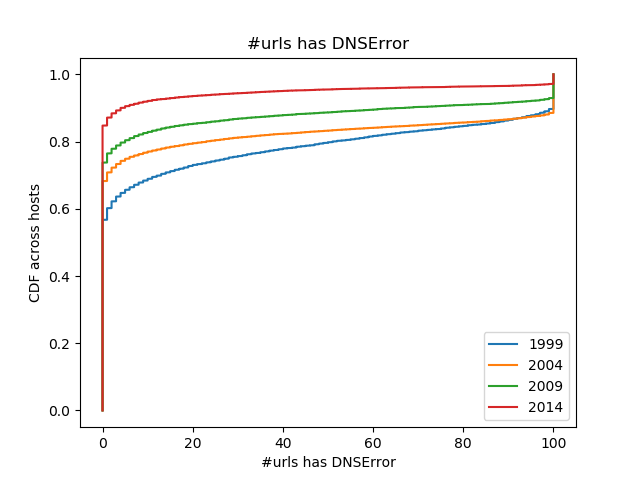
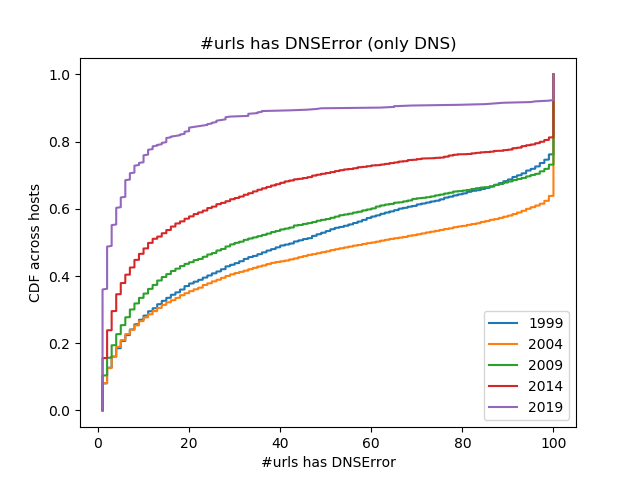
Going to implement the search

diff --git a/broken_pages/plot.py b/broken_pages/plot.py
@@ -11,26 +11,35 @@ import config
 db = MongoClient(config.MONGO_HOSTNAME).web_decay
 
 def frac_45xx_links():
-    years = [1999, 2004, 2009, 2014]
+    years = [1999, 2004, 2009, 2014, 2019]
     missing_counts = []
     for year in years:
         missing_count = []
-        hosts = db.url_status_consec.aggregate([
+        hosts = db.url_status.aggregate([
             {"$match": {"year": year}},
             {"$group": {"_id": "$hostname"}}
         ])
         for host in hosts:
-            count = db.url_status_consec.count_documents({"year": year, "hostname": host['_id'], "status": re.compile('^[45]')})
+            count = db.url_status.count_documents({"year": year, "hostname": host['_id'], "status": re.compile('^[45]')})
             missing_count.append(count)
         missing_counts.append(missing_count)
     plot.plot_CDF(missing_counts, classname=[str(y) for y in years], show=False)
     plt.xlabel("#urls has 4/5xx")
     plt.ylabel("CDF across hosts")
-    plt.title("#urls has 4/5xx status code")
-    plt.savefig('fig/45xx_frac_consec.png')
+    plt.title("#urls has 4/5xx status code (all hosts)")
+    plt.savefig('fig/45xx_frac_all.png')
+    plt.close()
+    missing_counts = [list(filter(lambda x: x > 0, mc)) for mc in missing_counts]
+    plot.plot_CDF(missing_counts, classname=[str(y) for y in years], show=False)
+    plt.xlabel("#urls has 4/5xx")
+    plt.ylabel("CDF across hosts")
+    plt.title("#urls has 4/5xx status code (only 45xx)")
+    plt.savefig('fig/45xx_frac.png')
+    plt.close()
+
 
 def frac_DNS_links():
-    years = [1999, 2004, 2009, 2014]
+    years = [1999, 2004, 2009, 2014, 2019]
     missing_counts = []
     for year in years:
         missing_count = []
@@ -45,8 +54,16 @@ def frac_DNS_links():
     plot.plot_CDF(missing_counts, classname=[str(y) for y in years], show=False)
     plt.xlabel("#urls has DNSError")
     plt.ylabel("CDF across hosts")
-    plt.title("#urls has DNSError")
+    plt.title("#urls has DNSError (all hosts)")
+    plt.savefig('fig/dns_frac_all.png')
+    plt.close()
+    missing_counts = [list(filter(lambda x: x > 0, mc)) for mc in missing_counts]
+    plot.plot_CDF(missing_counts, classname=[str(y) for y in years], show=False)
+    plt.xlabel("#urls has DNSError")
+    plt.ylabel("CDF across hosts")
+    plt.title("#urls has DNSError (only DNS)")
     plt.savefig('fig/dns_frac.png')
+    plt.close()
 
 
 
@@ -81,4 +98,5 @@ def frac_200_broken_links():
     plt.savefig('fig/nonhome_links.png')
     plt.close()
 
-frac_200_broken_links()
+frac_45xx_links()
+frac_DNS_links()

diff --git a/utils/search.py b/utils/search.py
@@ -1,0 +1,62 @@
+"""
+Utils library for search
+"""
+import requests
+import json
+import sys
+
+sys.path.append('../')
+import config
+from utils import text_utils
+
+google_query_dict = {
+    "q": None,
+    "key" : config.SEARCH_KEY,
+    "cx" : config.SEARCH_CX
+}
+
+bing_query_dict = {
+    "q": None
+}
+
+requests_header = {'user-agent': "Mozilla/5.0 (Macintosh; Intel Mac OS X 10_15_2) AppleWebKit/537.36 (KHTML, like Gecko) Chrome/79.0.3945.88 Safari/537.36"}
+headers = {"Ocp-Apim-Subscription-Key": '978290f3b37c48538596753b4d2be65f'}
+
+google_url = 'https://www.googleapis.com/customsearch/v1'
+bing_url = 'https://api.cognitive.microsoft.com/bing/v7.0/search'
+
+
+def google_search(query, end=0, param_dict={}):
+    """
+    Search using google
+    """
+    google_query_dict['q'] = query
+    google_query_dict.update(param_dict)
+    try:
+        r = requests.get(google_url, params=google_query_dict)
+        r = r.json()
+    except Exception as e:
+        print(str(e))
+        return []
+    if "items" not in r:
+        return []
+    end = len(r['items']) if end == 0 else min(len(r["items"]), end)
+    return [ u["link"] for u in r['items'][:end]]
+
+
+def bing_search(query, end=0):
+    """
+    Search using bing
+    """
+    bing_query_dict["q"] = query
+    try:
+        r = requests.get(bing_url, params=bing_query_dict, headers=headers)
+        r = r.json()
+    except Exception as e:
+        print(str(e))
+        return []
+    if "webPages" not in r or 'value' not in r['webPages']:
+        return []
+    values = r["webPages"]['value']
+    end = len(values) if end == 0 else min(len(values), end)
+    return [u['url'] for u in values[:end]]

diff --git a/config.py b/config.py
@@ -13,8 +13,11 @@ LOCALSERVER_PORT=24680
 if not os.path.exists(os.path.join(os.path.dirname(__file__), 'config.yml')):
     print("No config yaml file find")
 else:
+    config_yml = yaml.load(open(os.path.join(os.path.dirname(__file__), 'config.yml'), 'r'), Loader=yaml.FullLoader)
     PROXIES = [{'http': ip, 'https': ip } for ip in \
-        yaml.load(open(os.path.join(os.path.dirname(__file__), 'config.yml'), 'r'), Loader=yaml.FullLoader)['proxies']]
+                config_yml.get('proxies')]
     PROXIES = PROXIES + [{}]  # One host do not have to use proxy
-    HOSTS = yaml.load(open(os.path.join(os.path.dirname(__file__), 'config.yml'), 'r'), Loader=yaml.FullLoader)['hosts']
-    TMPPATH = yaml.load(open(os.path.join(os.path.dirname(__file__), 'config.yml'), 'r'), Loader=yaml.FullLoader)['tmp_path']
+    HOSTS = config_yml.get('hosts')
+    TMPPATH = config_yml.get('tmp_path')
+    SEARCH_CX = config_yml.get('search_cx')
+    SEARCH_KEY = config_yml.get('search_key')

diff --git a/search/perf.py b/search/perf.py
@@ -26,6 +26,8 @@ google_query_dict = {
     # "fileType": "HTML"
 }
 
+key = 'AIzaSyCFRLJg_4e7ZEWB72VGO_Fwi2PJIPhBIRw'
+
 
 requests_header = {'user-agent': "Mozilla/5.0 (Macintosh; Intel Mac OS X 10_15_2) AppleWebKit/537.36 (KHTML, like Gecko) Chrome/79.0.3945.88 Safari/537.36"}
 headers = {"Ocp-Apim-Subscription-Key": '978290f3b37c48538596753b4d2be65f'}
